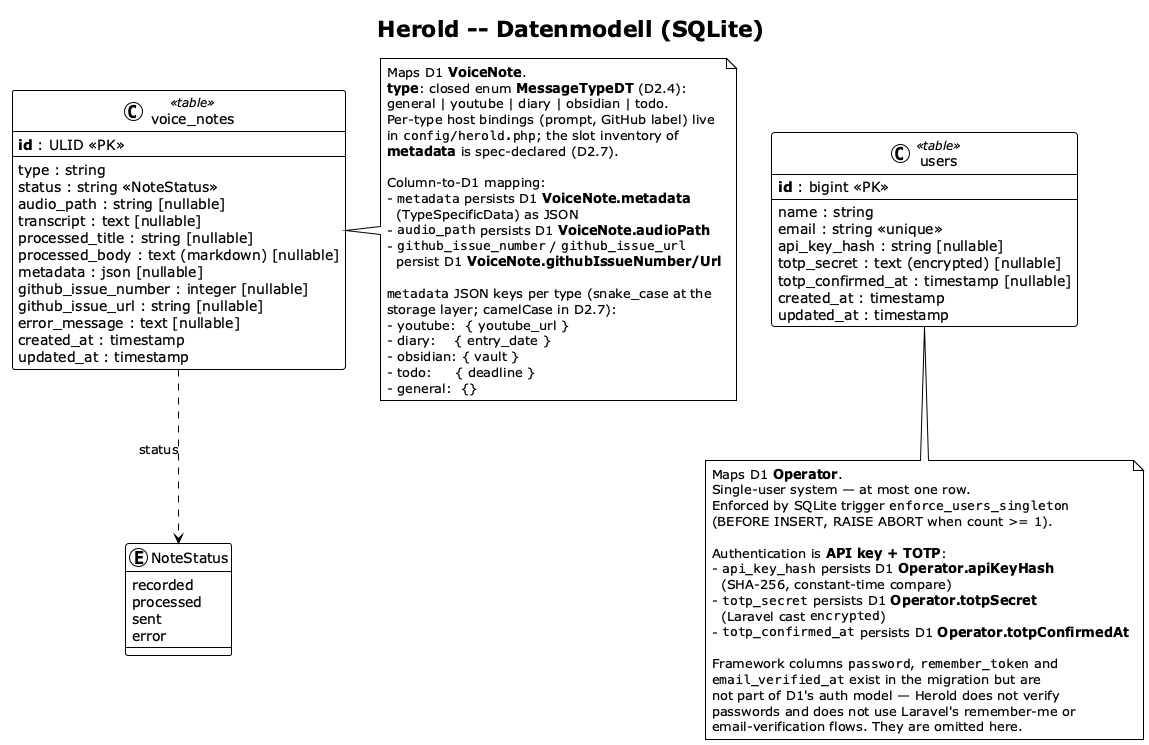
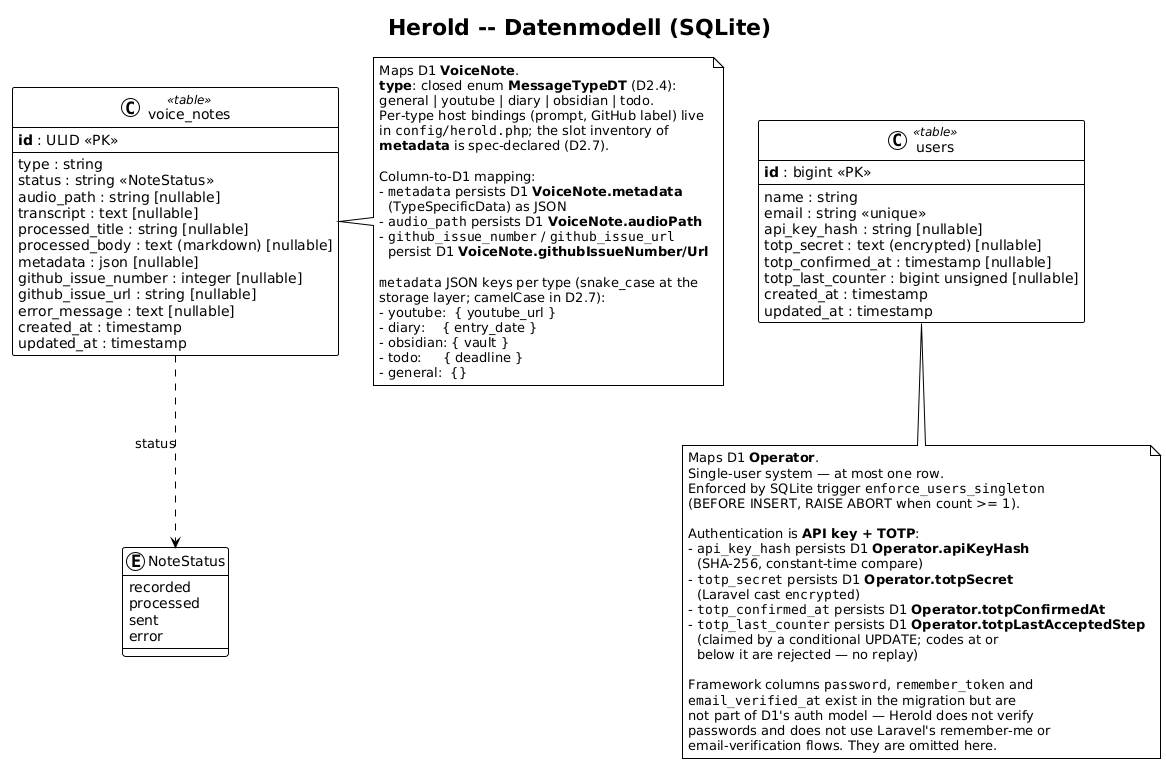
fix(auth): reject replayed TOTP codes
A TOTP code stayed valid for its whole ±1-step window, so the same code
could complete a second sign-in within ~90 s. RFC 6238 § 5.2 forbids
accepting an OTP twice.

verify() now returns the matched time-step counter and skips steps at or
below the last accepted one. Both code endpoints claim the counter in the
new users.totp_last_counter column via a conditional UPDATE, so even two
racing requests with the same code cannot both succeed. A replayed code
fails like a wrong one.

Spec: NFR-15a-01, N2.4, D1 (Operator.totpLastAcceptedStep), UC-01/UC-02.
Arch: A05, A06 (+ sign-in diagram), A08 § 8.4, relational data model.

Requires `php artisan migrate --force` after deployment.

diff --git a/tests/Unit/TotpServiceTest.php b/tests/Unit/TotpServiceTest.php
@@ -38,11 +38,11 @@ class TotpServiceTest extends TestCase
         parent::tearDown();
     }
 
-    private function verifyAt(string $secret, string $code, int $timestamp): bool
+    private function verifyAt(string $secret, string $code, int $timestamp, ?int $lastCounter = null): ?int
     {
         Carbon::setTestNow(Carbon::createFromTimestamp($timestamp));
 
-        return $this->totp->verify($secret, $code);
+        return $this->totp->verify($secret, $code, $lastCounter);
     }
 
     /**
@@ -69,7 +69,7 @@ class TotpServiceTest extends TestCase
     #[DataProvider('rfc6238Vectors')]
     public function test_verify_accepts_rfc_6238_vector(int $timestamp, string $expected): void
     {
-        $this->assertTrue($this->verifyAt(self::RFC_SECRET_BASE32, $expected, $timestamp));
+        $this->assertNotNull($this->verifyAt(self::RFC_SECRET_BASE32, $expected, $timestamp));
     }
 
     public function test_base32_encodes_rfc_secret(): void
@@ -107,7 +107,7 @@ class TotpServiceTest extends TestCase
         foreach ([-1, 0, 1] as $step) {
             $code = $this->totp->codeAt($secret, $now + $step * TotpService::PERIOD);
 
-            $this->assertTrue($this->verifyAt($secret, $code, $now), "step {$step} should be accepted");
+            $this->assertNotNull($this->verifyAt($secret, $code, $now), "step {$step} should be accepted");
         }
     }
 
@@ -126,7 +126,7 @@ class TotpServiceTest extends TestCase
 
             // Guard against an (astronomically unlikely) collision with a code inside the window.
             $this->assertNotContains($code, $window);
-            $this->assertFalse($this->verifyAt($secret, $code, $now), "step {$step} should be rejected");
+            $this->assertNull($this->verifyAt($secret, $code, $now), "step {$step} should be rejected");
         }
     }
 
@@ -136,7 +136,7 @@ class TotpServiceTest extends TestCase
         $secret = self::RFC_SECRET_BASE32;
 
         foreach (['', '28708', '2870820', ' 287082', '287082 ', '28708a', 'abcdef', '287 082'] as $code) {
-            $this->assertFalse($this->verifyAt($secret, $code, $timestamp), "'{$code}' should be rejected");
+            $this->assertNull($this->verifyAt($secret, $code, $timestamp), "'{$code}' should be rejected");
         }
     }
 
@@ -144,7 +144,40 @@ class TotpServiceTest extends TestCase
     {
         $code = $this->totp->codeAt(self::RFC_SECRET_BASE32, 59);
 
-        $this->assertFalse($this->verifyAt('JBSWY3DPEHPK3PXP', $code, 59));
+        $this->assertNull($this->verifyAt('JBSWY3DPEHPK3PXP', $code, 59));
+    }
+
+    public function test_verify_returns_matched_counter(): void
+    {
+        $now = 1111111111;
+        $current = intdiv($now, TotpService::PERIOD);
+
+        foreach ([-1, 0, 1] as $step) {
+            $code = $this->totp->codeAt(self::RFC_SECRET_BASE32, $now + $step * TotpService::PERIOD);
+
+            $this->assertSame($current + $step, $this->verifyAt(self::RFC_SECRET_BASE32, $code, $now));
+        }
+    }
+
+    public function test_verify_rejects_counter_at_or_below_last_used(): void
+    {
+        $now = 1111111111;
+        $current = intdiv($now, TotpService::PERIOD);
+        $code = $this->totp->codeAt(self::RFC_SECRET_BASE32, $now);
+
+        // RFC 6238 § 5.2: an OTP accepted once must not be accepted again.
+        $this->assertNull($this->verifyAt(self::RFC_SECRET_BASE32, $code, $now, $current));
+        $this->assertNull($this->verifyAt(self::RFC_SECRET_BASE32, $code, $now, $current + 1));
+        $this->assertSame($current, $this->verifyAt(self::RFC_SECRET_BASE32, $code, $now, $current - 1));
+    }
+
+    public function test_verify_rejects_code_of_older_step_once_a_later_step_was_used(): void
+    {
+        $now = 1111111111;
+        $current = intdiv($now, TotpService::PERIOD);
+        $previous = $this->totp->codeAt(self::RFC_SECRET_BASE32, $now - TotpService::PERIOD);
+
+        $this->assertNull($this->verifyAt(self::RFC_SECRET_BASE32, $previous, $now, $current));
     }
 
     public function test_provisioning_uri_carries_secret_and_parameters(): void

diff --git a/tests/Acceptance/AuthenticationTest.php b/tests/Acceptance/AuthenticationTest.php
@@ -118,6 +118,40 @@ class AuthenticationTest extends TestCase
         $this->assertNotNull($this->user->fresh()->totp_confirmed_at);
     }
 
+    public function test_totp_code_cannot_be_replayed(): void
+    {
+        $code = (new TestableTotpService)->codeAt(self::TOTP_SECRET, now()->getTimestamp());
+
+        $this->post('/login/key', ['api_key' => 'test-api-key-for-testing']);
+        $this->post('/login/totp', ['totp_code' => $code])->assertRedirect(route('dashboard'));
+        $this->assertAuthenticatedAs($this->user);
+
+        $this->post('/logout');
+        $this->assertGuest();
+
+        $this->post('/login/key', ['api_key' => 'test-api-key-for-testing']);
+        $this->post('/login/totp', ['totp_code' => $code])->assertSessionHasErrors('totp_code');
+
+        $this->assertGuest();
+    }
+
+    public function test_enrolment_code_cannot_be_reused_for_sign_in(): void
+    {
+        $this->user->update(['totp_secret' => null, 'totp_confirmed_at' => null]);
+
+        $this->post('/login/key', ['api_key' => 'test-api-key-for-testing']);
+        $secret = $this->user->fresh()->totp_secret;
+        $code = (new TestableTotpService)->codeAt($secret, now()->getTimestamp());
+
+        $this->post('/login/totp/confirm', ['totp_code' => $code])->assertRedirect(route('dashboard'));
+        $this->post('/logout');
+
+        $this->post('/login/key', ['api_key' => 'test-api-key-for-testing']);
+        $this->post('/login/totp', ['totp_code' => $code])->assertSessionHasErrors('totp_code');
+
+        $this->assertGuest();
+    }
+
     public function test_login_rate_limiting_on_key_verification(): void
     {
         for ($i = 0; $i < 5; $i++) {

diff --git a/app/Services/TotpService.php b/app/Services/TotpService.php
@@ -50,21 +50,29 @@ class TotpService
 
     /**
      * Verify a TOTP code against the current time step, allowing a +-WINDOW
-     * step drift. Comparison is constant-time.
+     * step drift. Comparison is constant-time. Steps at or below $lastCounter
+     * are never accepted, so a code that was already used fails.
+     *
+     * Returns the matched time-step counter, or null. Callers must compare
+     * with `=== null`; counter 0 is a valid match.
      */
-    public function verify(string $secret, string $code): bool
+    public function verify(string $secret, string $code, ?int $lastCounter = null): ?int
     {
         $key = $this->base32Decode($secret);
         // Carbon instead of time(), so tests can move the clock (Carbon::setTestNow).
-        $counter = intdiv(Carbon::now()->getTimestamp(), self::PERIOD);
+        $current = intdiv(Carbon::now()->getTimestamp(), self::PERIOD);
 
-        for ($offset = -self::WINDOW; $offset <= self::WINDOW; $offset++) {
-            if (hash_equals($this->codeForCounter($key, $counter + $offset), $code)) {
-                return true;
+        for ($counter = $current - self::WINDOW; $counter <= $current + self::WINDOW; $counter++) {
+            if ($lastCounter !== null && $counter <= $lastCounter) {
+                continue;
+            }
+
+            if (hash_equals($this->codeForCounter($key, $counter), $code)) {
+                return $counter;
             }
         }
 
-        return false;
+        return null;
     }
 
     /**

diff --git a/app/Models/User.php b/app/Models/User.php
@@ -23,11 +23,32 @@ class User extends Authenticatable
             'password' => 'hashed',
             'totp_secret' => 'encrypted',
             'totp_confirmed_at' => 'datetime',
+            'totp_last_counter' => 'integer',
         ];
     }
 
     public function hasTotpEnabled(): bool
     {
         return $this->totp_confirmed_at !== null;
+    }
+
+    /**
+     * Atomically record $counter as the last accepted TOTP time step. Fails
+     * when the same or a later step was already accepted (RFC 6238 § 5.2), so
+     * one code can never complete two sign-ins, not even in parallel requests.
+     */
+    public function claimTotpCounter(int $counter): bool
+    {
+        $claimed = static::whereKey($this->getKey())
+            ->where(fn ($query) => $query
+                ->whereNull('totp_last_counter')
+                ->orWhere('totp_last_counter', '<', $counter))
+            ->update(['totp_last_counter' => $counter]) === 1;
+
+        if ($claimed) {
+            $this->setAttribute('totp_last_counter', $counter)->syncOriginalAttribute('totp_last_counter');
+        }
+
+        return $claimed;
     }
 }

diff --git a/app/Http/Controllers/AuthController.php b/app/Http/Controllers/AuthController.php
@@ -97,7 +97,9 @@ class AuthController extends Controller
             return back()->withErrors(['totp_code' => 'TOTP not set up yet.']);
         }
 
-        if (! $totp->verify($user->totp_secret, $request->input('totp_code'))) {
+        $counter = $totp->verify($user->totp_secret, $request->input('totp_code'), $user->totp_last_counter);
+
+        if ($counter === null || ! $user->claimTotpCounter($counter)) {
             return back()->withErrors(['totp_code' => 'Invalid TOTP code.']);
         }
 
@@ -126,7 +128,10 @@ class AuthController extends Controller
             return redirect()->route('login');
         }
 
-        if (! $totp->verify($user->totp_secret, $request->input('totp_code'))) {
+        $counter = $totp->verify($user->totp_secret, $request->input('totp_code'), $user->totp_last_counter);
+
+        // A replayed code (counter already claimed) fails exactly like a wrong one.
+        if ($counter === null || ! $user->claimTotpCounter($counter)) {
             Log::warning('Failed TOTP verification attempt.', [
                 'ip' => $request->ip(),
                 'user_id' => $user->id,

diff --git a/database/migrations/2026_10_30_000001_add_totp_last_counter_to_users_table.php b/database/migrations/2026_10_30_000001_add_totp_last_counter_to_users_table.php
@@ -1,0 +1,22 @@
+<?php
+
+use Illuminate\Database\Migrations\Migration;
+use Illuminate\Database\Schema\Blueprint;
+use Illuminate\Support\Facades\Schema;
+
+return new class extends Migration
+{
+    public function up(): void
+    {
+        Schema::table('users', function (Blueprint $table) {
+            $table->unsignedBigInteger('totp_last_counter')->nullable()->after('totp_confirmed_at');
+        });
+    }
+
+    public function down(): void
+    {
+        Schema::table('users', function (Blueprint $table) {
+            $table->dropColumn('totp_last_counter');
+        });
+    }
+};

diff --git a/docs/arch/A08-cross-cutting-concepts.md b/docs/arch/A08-cross-cutting-concepts.md
@@ -237,7 +237,7 @@ The message names the missing key but never the value ([§ 8.8](#88-secret-handl
 Realisation of [N2.4](../spec/N2-querschnittskonzepte.md#n24-authentication-and-session): the flow is concentrated in `AuthController` ([§ 6.4](A06-runtime-view.md#64-sign-in-with-inline-totp-enrolment)), the TOTP algorithm in `App\Services\TotpService` ([§ 5.2.3](A05-building-block-view.md#523-whitebox-domain-services)):
 
 - **Factor 1 — API key.** Presented at `POST /login/key`, hashed with SHA-256 and compared via `hash_equals` against `users.api_key_hash`. Success is held as the session flag `auth.key_verified` — not yet a login.
-- **Factor 2 — TOTP.** Home-rolled RFC 6238/4226 in `TotpService` ([ADR-010](A09-architecture-decisions.md#adr-010-home-rolled-totp-instead-of-a-library)), no library: 160-bit secret, custom Base32 codec, HMAC-SHA1 with dynamic truncation to 6 digits, 30 s steps, ±1 step clock-drift window, `hash_equals` comparison. Enrolment is inline on first sign-in (secret auto-generated after factor 1; `otpauth://` provisioning URI rendered as a QR client-side via the `qrcode` package; confirmed code sets `totp_confirmed_at`). The controller receives the service by method injection and holds no TOTP logic itself; `TotpServiceTest` pins the algorithm to the RFC 6238 Appendix B SHA-1 vectors.
+- **Factor 2 — TOTP.** Home-rolled RFC 6238/4226 in `TotpService` ([ADR-010](A09-architecture-decisions.md#adr-010-home-rolled-totp-instead-of-a-library)), no library: 160-bit secret, custom Base32 codec, HMAC-SHA1 with dynamic truncation to 6 digits, 30 s steps, ±1 step clock-drift window, `hash_equals` comparison, single-use codes (`users.totp_last_counter`, RFC 6238 § 5.2). Enrolment is inline on first sign-in (secret auto-generated after factor 1; `otpauth://` provisioning URI rendered as a QR client-side via the `qrcode` package; confirmed code sets `totp_confirmed_at`). The controller receives the service by method injection and holds no TOTP logic itself; `TotpServiceTest` pins the algorithm to the RFC 6238 Appendix B SHA-1 vectors.
 - **Session as the gate.** Only after factor 2 does `Auth::login()` run, followed by [session-id regeneration](https://laravel.com/docs/13.x/session#regenerating-the-session-id) and removal of the intermediate flags. Every protected route sits behind the stock session [`auth` middleware](https://laravel.com/docs/13.x/authentication#protecting-routes) — the single gate; no per-use-case checks exist. `POST /logout` invalidates the session ([UC-04](../spec/F2-anwendungsfaelle.md#uc-04--sign-out)).
 - **Defence-in-depth at the edge.** `SecurityHeaders` middleware on the whole `web` group: `X-Frame-Options: DENY`, `X-Content-Type-Options: nosniff`, `Referrer-Policy: strict-origin-when-cross-origin`, `Permissions-Policy: camera=(), microphone=(self)`.
 - **Recovery** replaces both factors via the out-of-band file token ([§ 6.5](A06-runtime-view.md#65-recover-access)); all rejection reasons collapse to a uniform 404 ([NFR-15a-04](../spec/N1-nichtfunktional.md#15a-access-requirements)).
@@ -272,15 +272,19 @@ Without `auth.key_verified`, the request returns to the login page. A direct cal
 
 ```php
 $key = $this->base32Decode($secret);                                // decoded once per attempt
-$counter = intdiv(Carbon::now()->getTimestamp(), self::PERIOD);     // the RFC 6238 time step (30 s)
+$current = intdiv(Carbon::now()->getTimestamp(), self::PERIOD);     // the RFC 6238 time step (30 s)
 
-for ($offset = -self::WINDOW; $offset <= self::WINDOW; $offset++) { // ±1 step tolerates clock drift
-    if (hash_equals($this->codeForCounter($key, $counter + $offset), $code)) {
-        return true;
+for ($counter = $current - self::WINDOW; $counter <= $current + self::WINDOW; $counter++) { // ±1 step drift
+    if ($lastCounter !== null && $counter <= $lastCounter) {
+        continue;                                                   // already used — no replay
+    }
+
+    if (hash_equals($this->codeForCounter($key, $counter), $code)) {
+        return $counter;
     }
 }
 
-return false;
+return null;
 ```
 
 The clock is read through Carbon rather than `time()`, so tests move it with `Carbon::setTestNow()` instead of widening the API. The public surface is `generateSecret`, `provisioningUri` and `verify`; the Base32 codec and `codeForCounter` are `protected`, and the test-only subclass `Tests\Support\TestableTotpService` exposes them (plus `codeAt` for generating valid codes). `codeForCounter` implements the underlying RFC 4226 calculation without a library ([ADR-010](A09-architecture-decisions.md#adr-010-home-rolled-totp-instead-of-a-library)): it encodes the time counter as eight bytes, calculates HMAC-SHA1 with the decoded shared secret, and derives a six-digit code from the result:
@@ -296,6 +300,18 @@ $binary = ((ord($hash[$offset]) & 0x7F) << 24)
 
 return str_pad((string) ($binary % 10 ** self::DIGITS), self::DIGITS, '0', STR_PAD_LEFT);
 ```
+
+`verify` returns the matched time step (or `null`) and skips every step at or below `$lastCounter`, the step of the last accepted code. The controller passes `users.totp_last_counter` and then claims the returned step atomically, so a code can complete at most one sign-in (RFC 6238 § 5.2), even when two requests race with the same code:
+
+```php
+$counter = $totp->verify($user->totp_secret, $request->input('totp_code'), $user->totp_last_counter);
+
+if ($counter === null || ! $user->claimTotpCounter($counter)) {   // replay fails like a wrong code
+    return back()->withErrors(['totp_code' => 'Invalid TOTP code.']);
+}
+```
+
+`User::claimTotpCounter` is a conditional `UPDATE … WHERE totp_last_counter IS NULL OR totp_last_counter < ?` and succeeds only if it changed exactly one row. Recovery leaves the column in place: time steps only grow, so the value stays valid for a re-enrolled secret.
 
 One verification attempt therefore checks at most three candidate codes. `POST /login/totp` (returning operators) and the enrolment endpoint `POST /login/totp/confirm` are each limited to five requests per minute.
 

diff --git a/docs/spec/F2-anwendungsfaelle.md b/docs/spec/F2-anwendungsfaelle.md
@@ -56,7 +56,7 @@ The constraint note attached to the *Herold* boundary records the system-wide pr
 | **Actors** | Operator (primary). |
 | **Precondition** | An API key is bound to the operator account; operator possesses the API key. |
 | **Postcondition** | Authenticated session active. |
-| **Main scenario** | 1. System presents the sign-in screen.<br>2. Operator enters the API key as the first factor.<br>3. System verifies the API key against `Operator.apiKeyHash`.<br>4. If no confirmed TOTP secret is bound to the account, system runs [UC-02](#uc-02--enrol-second-factor) inline as part of this sign-in.<br>5. Otherwise, system prompts for the time-based one-time password; operator enters the current code; system verifies it against `Operator.totpSecret`.<br>6. System establishes an authenticated session.<br>7. Operator is taken to the dashboard.<br><br>![UC-01 Sign in — main scenario](diagrams-png/f2-uc01-sign-in.png) |
+| **Main scenario** | 1. System presents the sign-in screen.<br>2. Operator enters the API key as the first factor.<br>3. System verifies the API key against `Operator.apiKeyHash`.<br>4. If no confirmed TOTP secret is bound to the account, system runs [UC-02](#uc-02--enrol-second-factor) inline as part of this sign-in.<br>5. Otherwise, system prompts for the time-based one-time password; operator enters the current code; system verifies it against `Operator.totpSecret` and rejects a code that was already accepted (`Operator.totpLastAcceptedStep`).<br>6. System establishes an authenticated session.<br>7. Operator is taken to the dashboard.<br><br>![UC-01 Sign in — main scenario](diagrams-png/f2-uc01-sign-in.png) |
 | **Exception scenarios** | *API key is rejected:* operator may retry within the rate limit; no session is established.<br>*TOTP code fails (subsequent sign-in):* operator may retry within the same rate limit, or pivot to [UC-03](#uc-03--recover-access).<br>*Inline enrolment fails (first sign-in):* see [UC-02](#uc-02--enrol-second-factor) exceptions; the sign-in attempt is aborted and no session is established; operator restarts [UC-01](#uc-01--sign-in) to retry. |
 | **Qualities** | [NFR-15a-01](N1-nichtfunktional.md) *Two-Factor Browser Authentication*; [NFR-15a-02](N1-nichtfunktional.md) *Login Rate Limiting and Lockout*. |
 
@@ -72,7 +72,7 @@ The constraint note attached to the *Herold* boundary records the system-wide pr
 | **Precondition** | The first factor has been verified within a [UC-01](#uc-01--sign-in) still in progress and no confirmed TOTP secret is currently bound to the account. |
 | **Postcondition** | A confirmed TOTP secret is bound to the account (`Operator.totpSecret` and `Operator.totpConfirmedAt` populated). |
 | **Result** | Fresh TOTP secret bound to the account, captured by the operator in an authenticator app of their choice. |
-| **Main scenario** | 1. System generates a fresh TOTP secret and binds it provisionally to the account.<br>2. System displays the secret in a form an authenticator app can capture (scannable provisioning information and the raw secret as fallback).<br>3. Operator registers the secret in their authenticator app.<br>4. Operator enters a confirmation code produced by the authenticator from the new secret.<br>5. System verifies the confirmation code and marks the secret confirmed.<br><br>![UC-02 Enrol second factor — main scenario](diagrams-png/f2-uc02-enrol-totp.png) |
+| **Main scenario** | 1. System generates a fresh TOTP secret and binds it provisionally to the account.<br>2. System displays the secret in a form an authenticator app can capture (scannable provisioning information and the raw secret as fallback).<br>3. Operator registers the secret in their authenticator app.<br>4. Operator enters a confirmation code produced by the authenticator from the new secret.<br>5. System verifies the confirmation code and marks the secret confirmed; the code counts as used (`Operator.totpLastAcceptedStep`).<br><br>![UC-02 Enrol second factor — main scenario](diagrams-png/f2-uc02-enrol-totp.png) |
 | **Exception scenarios** | - *Confirmation code wrong:* operator retries; the secret remains provisional and no confirmed TOTP secret is bound.<br>- *Operator abandons setup before confirming:* the unconfirmed secret is replaced on the next enrolment attempt; no confirmed TOTP secret is bound until step 5 succeeds. |
 | **Qualities** | No backup codes are issued. The recovery path for a lost authenticator is [UC-03](#uc-03--recover-access) (out-of-band recovery token), not a stored backup-code list. |
 

diff --git a/docs/arch/A05-building-block-view.md b/docs/arch/A05-building-block-view.md
@@ -263,7 +263,7 @@ Contained black boxes (all under `app/Services/`):
 | `PreprocessingService` | `process(VoiceNote): void` | Assembles the type-specific prompt from the catalogue (unknown type → exception), calls the generation seam, and persists the generated title, body, and extracted extra fields together with the new status ([§ 8.2](A08-cross-cutting-concepts.md#82-type-driven-configuration), [chapter 6](A06-runtime-view.md)). |
 | `IssueContentSanitizer` | `sanitizeAndWrap(VoiceNote): string` | Composes the dispatched issue body from sanitised note content plus a generated metadata section — the neutralisation and visual delimitation demanded by [NFR-15b-04](../spec/N1-nichtfunktional.md#15b-integrity-requirements); rules in [§ 8.5](A08-cross-cutting-concepts.md#85-content-sanitisation). |
 | `MessageTypeRegistry` | `all(): array`, `get(string): ?array`, `keys(): array` | The browser-safe projection of the type catalogue: the prompt-bearing entries are stripped before anything reaches the UI Shell — the enforcement point of [NFR-15b-02](../spec/N1-nichtfunktional.md#15b-integrity-requirements). |
-| `TotpService` | `generateSecret(): string`, `provisioningUri(string, string): string`, `verify(string, string): bool` | The home-rolled RFC 6238/4226 second factor of [ADR-010](A09-architecture-decisions.md#adr-010-home-rolled-totp-instead-of-a-library): 160-bit Base32 secret, `otpauth://` provisioning URI, HMAC-SHA1 6-digit codes on 30 s steps, ±1 step drift window, constant-time comparison ([§ 8.4](A08-cross-cutting-concepts.md#84-authentication-and-session)). |
+| `TotpService` | `generateSecret(): string`, `provisioningUri(string, string): string`, `verify(string, string, ?int): ?int` | The home-rolled RFC 6238/4226 second factor of [ADR-010](A09-architecture-decisions.md#adr-010-home-rolled-totp-instead-of-a-library): 160-bit Base32 secret, `otpauth://` provisioning URI, HMAC-SHA1 6-digit codes on 30 s steps, ±1 step drift window, constant-time comparison, single-use codes via the last accepted counter ([§ 8.4](A08-cross-cutting-concepts.md#84-authentication-and-session)). |
 
 Local relationships:
 

diff --git a/docs/spec/N2-querschnittskonzepte.md b/docs/spec/N2-querschnittskonzepte.md
@@ -59,7 +59,7 @@ The catalogue is closed at the spec level. Adding a cross-cutting concept is a s
 
 **Strategy.**
 
-- *Two factors, one operator.* Authentication is API key + TOTP per [NFR-15a-01](N1-nichtfunktional.md). The single `Operator` ([D1.1](D1-datenmodell.md#operator)) carries both verifiers — `apiKeyHash` and `totpSecret` — and the marker `totpConfirmedAt`. There is at most one operator instance ([CON-3a-04](P1-constraints.md)).
+- *Two factors, one operator.* Authentication is API key + TOTP per [NFR-15a-01](N1-nichtfunktional.md). The single `Operator` ([D1.1](D1-datenmodell.md#operator)) carries both verifiers — `apiKeyHash` and `totpSecret` — the marker `totpConfirmedAt`, and `totpLastAcceptedStep`, which makes every second-factor code single-use. There is at most one operator instance ([CON-3a-04](P1-constraints.md)).
 - *Single gate.* A request that has not presented both factors and does not belong to the sign-in or recovery flows is rejected at the boundary, before any use case runs. The session, once established, attests both factors for its lifetime; sign-out ([UC-04](F2-anwendungsfaelle.md#uc-04--sign-out)) is the only operator-initiated way to retire it.
 - *Out-of-band recovery, not email-based.* Recovery ([UC-03](F2-anwendungsfaelle.md#uc-03--recover-access)) is mediated by the `RecoveryToken` ([D1.1](D1-datenmodell.md#recoverytoken)) — a single transient artefact placed by the operator into the host file store. Successful redemption replaces both factors and reveals the new API key exactly once. The token's time-to-live is governed by [NFR-15a-04](N1-nichtfunktional.md); the three rejection reasons (missing, mismatched, expired) are externally indistinguishable.
 - *Rate limiting at the gate.* Sign-in and recovery enforce per-IP rate limits and lockouts per [NFR-15a-02](N1-nichtfunktional.md). The limit is applied at the same boundary that performs the credential check, before the credential check itself.

diff --git a/docs/arch/A06-runtime-view.md b/docs/arch/A06-runtime-view.md
@@ -65,6 +65,7 @@ Notable aspects:
 - **Enrolment is lazy and inline.** The first successful key verification auto-generates a TOTP secret (160-bit random, Base32) and drives the operator through provisioning-URI capture and code confirmation before any session is issued — [UC-02](../spec/F2-anwendungsfaelle.md#uc-02--enrol-second-factor) as an inline branch of [UC-01](../spec/F2-anwendungsfaelle.md#uc-01--sign-in), exactly as specified.
 - **The session attests both factors.** `Auth::login` fires only after the second factor verifies; the session id is regenerated and the intermediate flags are dropped. Every protected route then relies solely on the stock session `auth` guard ([§ 8.4](A08-cross-cutting-concepts.md#84-authentication-and-session)).
 - **Enrolment cannot replace a confirmed second factor.** `verifyKey` mints a TOTP secret only while `totp_confirmed_at` is unset, and the enrolment endpoint bounces back to `/login` once it is set, so the API key alone can never mint or confirm a fresh TOTP secret for an enrolled operator.
+- **Every TOTP code is single-use.** Both code endpoints claim the matched time step in `users.totp_last_counter` with a conditional update; a code whose step is not above the stored one fails like a wrong code ([NFR-15a-01](../spec/N1-nichtfunktional.md#15a-access-requirements), RFC 6238 § 5.2).
 - **Rate limits sit in front of the credential checks.** `throttle:5,1` guards both factor endpoints and the enrolment endpoint; failures are logged with source IP ([NFR-15a-02](../spec/N1-nichtfunktional.md#15a-access-requirements), [N2.6](../spec/N2-querschnittskonzepte.md#n26-logging)).
 
 ## 6.5 Recover access

diff --git a/docs/spec/D1-datenmodell.md b/docs/spec/D1-datenmodell.md
@@ -67,6 +67,7 @@ Authentication ([NFR-15a-01](N1-nichtfunktional.md) *Two-Factor Browser Authenti
 | `apiKeyHash` | OpaqueSecret [0..1] | First-factor verifier. The operator presents the raw API key at sign-in (UC-01); the system compares its hash in constant time per [D2.6](D2-datentypen.md#d26-opaquesecret). Initially populated from the host configuration on first install; rotated by UC-03. |
 | `totpSecret` | OpaqueSecret [0..1] | Second-factor shared secret. Bound provisionally in UC-02 step 1 and confirmed in step 5; cleared by UC-03. |
 | `totpConfirmedAt` | Timestamp [0..1] | Marks UC-02 completion. While unset, UC-01 cannot succeed. |
+| `totpLastAcceptedStep` | Integer [0..1] | Time step of the last accepted second-factor code (UC-01 step 5, UC-02 step 5). A code whose time step is at or below this value is rejected, so every code completes at most one sign-in ([NFR-15a-01](N1-nichtfunktional.md)). Only ever increases; UC-03 leaves it in place, because time steps grow monotonically and the value stays valid for a re-enrolled secret. |
 
 ### RecoveryToken
 
